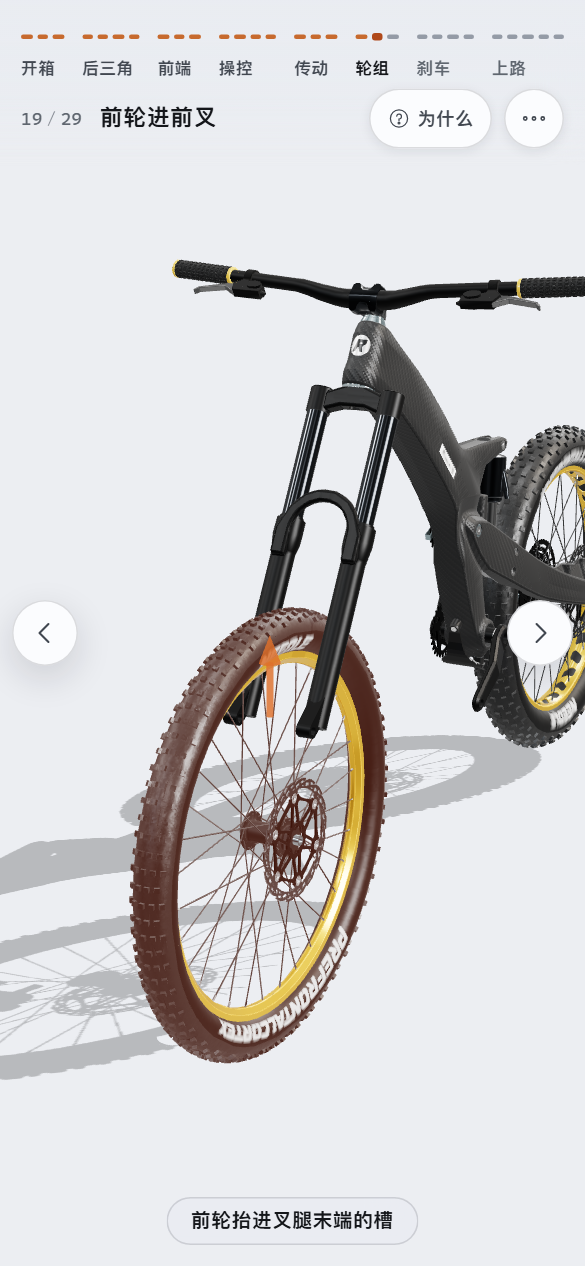
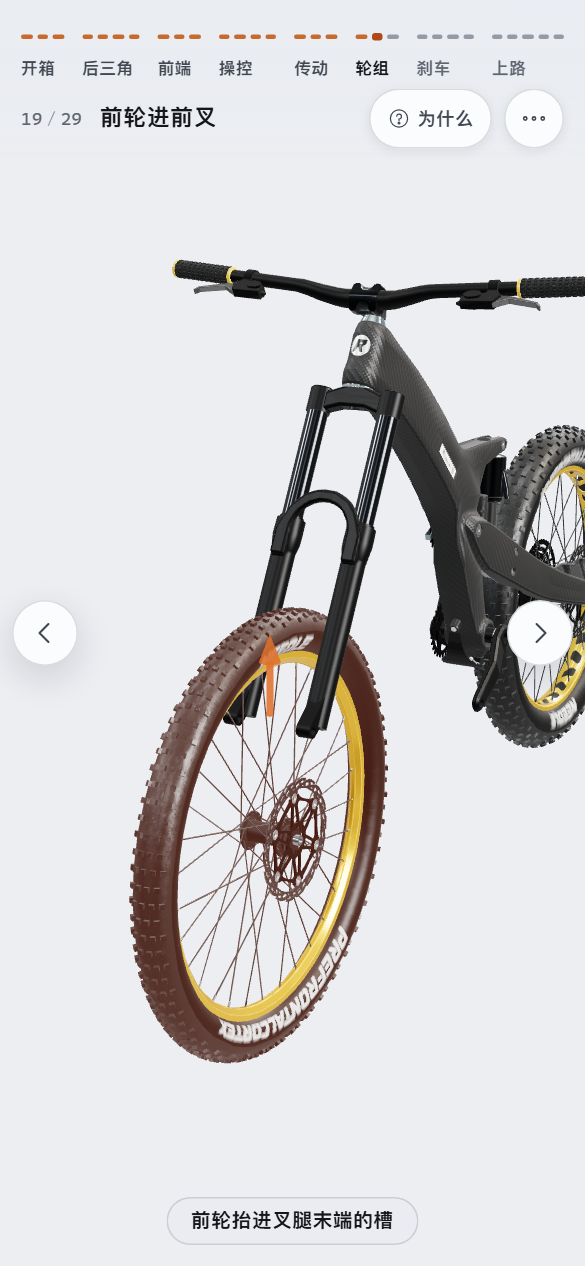
去掉地面投影，收紧整车取景，剔除不必要的镜头运动
一、不投影

一台自行车投在地上的影子是一大片辐条、链条、叉腿交织的噪点，面积常常比主体
本身还大；近景步骤里它就摊在主体旁边，眼睛先被它勾过去。关掉 shadowMap，
去掉接影地面与逐网格的 castShadow / receiveShadow。顺带省掉每帧一张 2048²
的阴影贴图与一整趟投影渲染。

代价是向下那一面失去了唯一的形体线索，所以半球光下半色抬亮转冷
（0x3a3630 → 0x8a8f96，强度 0.45 → 0.6），深色主题另收一档。

二、整车那几张收紧

影子原本正好占着车底下那一块，取消之后同样的余量读起来就是「车缩在中间一小团」。
frameWhole 的 pad 由 1.03 收到 0.96：成品照竖向由占可用画面的 0.71 到 0.76，
光车架 0.87，收尾 0.78。收到 0.92 时窄屏上收尾那张会贴边 —— 冒烟当场报出来了，
这一档是被那条断言定住的。

三、剔除不必要的镜头运动

镜头动是有代价的：读的人会以为「有什么变了」而重新找一遍画面。三条：

- 屏幕上看不出来的位移直接落位，一帧都不动画（TINY）。判据折算成「占画面的几成」，
  不按世界尺度 —— 目标点挪 4 cm，在整车照上什么也看不出，在一颗螺栓的近景里
  却是半个画面。
- 中段外扩只留给真要绕过去的那几趟（BULGE_FROM 40°）。实测二十八趟里由二十八趟
  全有外扩收到只剩六趟，其余那些的「呼吸」本来就没有理由。
- 界面引起的重新取景（说明卡摊开、读数出现、转屏）走快档 0.32 s、不外扩 ——
  它是纠版式，不是叙事。**但不许把正在走的那一趟掐短**：动手的步骤在 enter() 里
  摆出扭矩表时安全区当场变一次，不防的话 H3 / H4 那两趟一秒多的环绕会被压成
  0.32 秒，落点虽对，看着却是「走到一半突然赶过去」。修好后两趟回到 1.15 / 1.38 s。

实测：二十八趟每一趟只排一次运镜，铺完之后没有任何一步再飘（都是 0）。

冒烟

「运镜」那一条的跳切判据改成「明显挪了位置却没排运镜」（挪动 > 5 cm 而时长 < 0.3 s）——
原来的「时长必须 ≥ 0.4」会把故意不动画的那一档误判成跳切。
去掉两处为绕开阴影而临时关地面的代码。

怎么验的

npm run check 全绿：lint + 44 单测 + 11 条清单对账 + 构建 + 108 条冒烟。
npm run frames：整车四张都完整，控制台干净。
专门量了一遍运镜克制程度（时长 / 外扩 / 每步排了几趟 / 铺完之后还飘多少）。
README 七张截图按无影版重拍。

diff --git a/src/render/stage.js b/src/render/stage.js
@@ -36,15 +36,25 @@ function orbit(target, az, el, dist) {
 const SCENE_SPAN = 1.2;
 
 /**
+ * 屏幕上的动静小于这个数就不动画，直接落位。
+ * 0.06 大致相当于：主体在画面上挪不到百分之三、或者转不到五度、或者缩放不到三个点。
+ * 这个量级的位移看不出来，而为它跑半秒动画只会让人以为「有什么变了」。
+ */
+const TINY = 0.06;
+
+/** 转过这么多度才值得在中段把镜头往外鼓一下；以下的只是多余的呼吸 */
+const BULGE_FROM = 40;
+
+/**
  * 三档画质预算。
  *
  * 这台车有 32 根一根根建出来的辐条、一整条链、几十颗倒角螺丝 ——
  * 高对比细边到处都是，镜头又一直在缓慢环绕，抗锯齿不能省。
  */
 const TIERS = {
-  low: { antialias: true, maxPixelRatio: 1.5, shadow: 0 },
-  mid: { antialias: true, maxPixelRatio: 1.75, shadow: 1024 },
-  high: { antialias: true, maxPixelRatio: 2, shadow: 2048 },
+  low: { antialias: true, maxPixelRatio: 1.5 },
+  mid: { antialias: true, maxPixelRatio: 1.75 },
+  high: { antialias: true, maxPixelRatio: 2 },
 };
 
 /** 按设备能力粗分档：显存与核数都探不到时，宁可给低的 */
@@ -77,8 +87,14 @@ export class Stage {
     renderer.outputColorSpace = THREE.SRGBColorSpace;
     renderer.toneMapping = THREE.ACESFilmicToneMapping;
     renderer.toneMappingExposure = 1.0;
-    renderer.shadowMap.enabled = q.shadow > 0;
-    renderer.shadowMap.type = THREE.PCFShadowMap;
+    /*
+     * **不投影。** 这一份要看的是零件与零件怎么接上，而一台自行车投在地上的影子
+     * 是一大片辐条、链条、叉腿交织的噪点，面积常常比主体本身还大 ——
+     * 近景步骤里它就摊在主体旁边，眼睛先被它勾过去。
+     * 去掉之后主体浮在一块干净的台面上，边缘一清二楚。
+     *
+     * 顺带省掉每帧一张 2048² 的阴影贴图与一整趟投影渲染。
+     */
     this.renderer = renderer;
 
     this.scene = new THREE.Scene();
@@ -97,16 +113,6 @@ export class Stage {
     // ── 布光 ──
     this.key = new THREE.DirectionalLight(0xfff4e6, 2.2);
     this.key.position.set(3, 5, 4);
-    this.key.castShadow = q.shadow > 0;
-    if (q.shadow) {
-      this.key.shadow.mapSize.set(q.shadow, q.shadow);
-      this.key.shadow.camera.near = 0.5;
-      this.key.shadow.camera.far = 20;
-      const s = 1.6;
-      Object.assign(this.key.shadow.camera, { left: -s, right: s, top: s, bottom: -s });
-      this.key.shadow.bias = -0.0006;
-      this.key.shadow.normalBias = 0.02;
-    }
     this.scene.add(this.key, this.key.target);
 
     this.fill = new THREE.DirectionalLight(0xcfe0f0, 0.7);
@@ -117,17 +123,14 @@ export class Stage {
     this.rim.position.set(-2, 3, -5);
     this.scene.add(this.rim);
 
-    this.ambient = new THREE.HemisphereLight(0xdfe8f2, 0x3a3630, 0.45);
+    /*
+     * 底光。没有影子之后，向下那一面完全靠它交代形体 ——
+     * 半球光的下半色原本压得很暗（0x3a3630），是为了让影子显得有分量；
+     * 影子不在了，那一档就只剩「底下糊成一团」。抬亮并转冷一点，
+     * 底面的转折才读得出来。
+     */
+    this.ambient = new THREE.HemisphereLight(0xdfe8f2, 0x8a8f96, 0.6);
     this.scene.add(this.ambient);
-
-    // ── 地面：只接影，不抢戏 ──
-    this.ground = new THREE.Mesh(
-      new THREE.PlaneGeometry(40, 40),
-      new THREE.ShadowMaterial({ opacity: 0.22 }),
-    );
-    this.ground.rotation.x = -Math.PI / 2;
-    this.ground.receiveShadow = true;
-    this.scene.add(this.ground);
 
     const controls = new OrbitControls(this.camera, canvas);
     controls.enableDamping = true;
@@ -172,7 +175,7 @@ export class Stage {
     this.renderer.setSize(w, h, false);
     this.camera.aspect = w / h;
     this.camera.updateProjectionMatrix();
-    if (this._lastFrame) this.setRecommended(this._lastFrame, { keepUser: true });
+    if (this._lastFrame) this.setRecommended(this._lastFrame, { keepUser: true, layout: true });
   }
 
   /**
@@ -185,7 +188,7 @@ export class Stage {
     this.safe = { top, bottom, left, right };
     // 动手的时候不重新取景：提示文字每换一行安全区就变，机位会一直缓慢地飘
     if (this.held) return;
-    if (this._lastFrame) this.setRecommended(this._lastFrame, { keepUser: true });
+    if (this._lastFrame) this.setRecommended(this._lastFrame, { keepUser: true, layout: true });
   }
 
   /**
@@ -242,11 +245,13 @@ export class Stage {
    * @param {{az?:number, el?:number, dist?:number, target?:THREE.Vector3,
    *          ease?:number, fit?:{r:number,h?:number}}} o
    *   fit 声明这一步必须完整看到的范围；装不下就把相机往后拉，只拉远不拉近。
-   * @param {{keepUser?:boolean}} [mode] keepUser：只是拿旧声明重算距离（画幅变了、
-   *   界面高度变了），不能清掉 userTook —— 否则用户刚转到顺手的角度，
+   * @param {{keepUser?:boolean, layout?:boolean}} [mode] keepUser：只是拿旧声明重算距离
+   *   （画幅变了、界面高度变了），不能清掉 userTook —— 否则用户刚转到顺手的角度，
    *   随便哪行提示换个字数，镜头就自己溜回去。
+   *   layout：这一次是界面变了要重新让位，不是换步。走快档、不鼓 —— 它是纠版式，
+   *   不是叙事的一部分，慢悠悠地飘过去反而像画面自己在动。
    */
-  setRecommended(o = {}, { keepUser = false } = {}) {
+  setRecommended(o = {}, { keepUser = false, layout = false } = {}) {
     const { az = 45, el = 18, dist, target = new THREE.Vector3(), ease = 1.0, fit } = o;
     this._lastFrame = { ...o, target };
     const t = target.clone();
@@ -282,7 +287,7 @@ export class Stage {
     if (!keepUser) this.userTook = false;
     this.cameraEase = ease;
     this.key.target.position.copy(t);
-    this.#beginShot(ease);
+    this.#beginShot(ease, { layout });
   }
 
   /** 相机此刻的轨道坐标（相对 controls.target） */
@@ -309,12 +314,22 @@ export class Stage {
    *  · 方位角走**最短的那一边**（归一到 ±180），否则会绕远路转 300°；
    *  · 距离按**几何插值**（等比），不是等差 —— 从 5 m 推到 0.3 m 时等差插值
    *    前半程几乎不动、后半程猛扑；
-   *  · 中段把距离往外鼓一点。转得越多鼓得越高，既避开中途蹭到车身，
-   *    读起来也正是真人换机位的样子：先退开，转过去，再推进。
+   *  · 转得多的时候，中段把距离往外鼓一点：避开中途蹭到车身，
+   *    读起来也正是真人换机位的样子 —— 先退开，转过去，再推进。
    *
-   * 时长按「这一趟有多远」现算：原地微调半秒收，转半圈一秒七。
+   * 时长按「这一趟有多远」现算：小幅调整半秒收，转半圈一秒七。
+   *
+   * **走不动的就别走。** 镜头动是有代价的：读的人会以为「有什么变了」而重新找一遍。
+   * 所以两处克制：
+   *   看不出来的位移直接落位，一帧都不animate（下面的 TINY）；
+   *   界面自己引起的重新取景（说明卡摊开、读数出现、转屏）只用来纠版式，
+   *     不是叙事的一部分 —— 走快档，也不鼓。
+   * 中段外扩同样只留给真的绕过半个车身那几趟，小幅调整时它只是一次多余的呼吸。
+   *
+   * @param {number} ease 步骤声明的时长系数
+   * @param {{layout?:boolean}} [o] layout：这一次只是界面变了要重新让位，不是换步
    */
-  #beginShot(ease = 1) {
+  #beginShot(ease = 1, { layout = false } = {}) {
     const from = this.#poseNow();
     const to = {
       target: this.recommend.target.clone(),
@@ -325,20 +340,48 @@ export class Stage {
     const dAz = wrapDeg(to.az - from.az);
     const dEl = to.el - from.el;
     const zoom = Math.abs(Math.log(Math.max(to.dist, 1e-3) / Math.max(from.dist, 1e-3)));
-    const move = from.target.distanceTo(to.target) / SCENE_SPAN;
-    const effort = Math.abs(dAz) / 180 + Math.abs(dEl) / 60 + zoom / 1.6 + move;
 
-    if (effort < 1e-3) { this.shot = null; return; }
+    /*
+     * 这一趟在**屏幕上**有多大动静。全按世界尺度算是不行的：
+     * 目标点挪 4 cm，在整车照上什么也看不出，在一颗螺栓的近景里却是半个画面。
+     * 折算成「占画面的几成」，判据才在近景与全景上都成立。
+     */
+    const span = 2 * to.dist * Math.tan((this.camera.fov * Math.PI) / 360);
+    const move = from.target.distanceTo(to.target) / Math.max(span, 1e-4);
+    const screen = Math.abs(dAz) / 90 + Math.abs(dEl) / 45 + zoom / 0.5 + move;
+
+    // 看不出来的就直接落位。这一档不是「跳切」—— 按定义它在屏幕上就不可见
+    if (screen < TINY) { this.shot = null; this.snapToRecommended(); return; }
+
+    const effort = Math.abs(dAz) / 180 + Math.abs(dEl) / 60 + zoom / 1.6
+      + from.target.distanceTo(to.target) / SCENE_SPAN;
     // 用户要求减少动效时几乎直接换过去 —— 一秒多的环绕对前庭敏感的人是负担。
     // 但仍留 0.2 秒：硬切一帧就是这一条要避免的「跳」
+    /*
+     * 界面引起的重新取景不能把**正在走的那一趟**掐短。
+     * 动手的那几步会在 enter() 里摆出扭矩表与螺丝排，安全区当场变一次，
+     * 于是一趟一秒四的环绕被一次纠版式压成 0.32 秒 —— 落点是对的，
+     * 可那一下看着就是「走到一半突然赶过去」。
+     * 快档只对「原本就没在走」的那一次生效。
+     */
+    const running = this.shot && !this.shot.layout
+      ? Math.max(0, this.shot.dur - this.shot.t)
+      : 0;
     const slow = reducedMotion();
+    const dur = slow ? 0.2
+      : layout ? Math.max(0.32, running)
+        : Math.max(0.45, Math.min(1.7, (0.45 + 0.8 * effort) / (ease || 1)));
     this.shot = {
       from,
       to,
       dAz,
       t: 0,
-      dur: slow ? 0.2 : Math.max(0.45, Math.min(1.7, (0.45 + 0.8 * effort) / (ease || 1))),
-      bulge: slow ? 0 : Math.min(0.34, 0.3 * effort),
+      dur,
+      layout,
+      // 只有真的要绕过去时才鼓。BULGE_FROM 以下这一下只是多余的呼吸
+      bulge: slow || layout || Math.abs(dAz) < BULGE_FROM
+        ? 0
+        : Math.min(0.3, 0.3 * (Math.abs(dAz) - BULGE_FROM) / (180 - BULGE_FROM)),
     };
   }
 
@@ -428,8 +471,8 @@ export class Stage {
   setTheme(theme) {
     const dark = theme === 'dark';
     this.scene.background = new THREE.Color(dark ? 0x14161a : 0xeceef2);
-    this.ground.material.opacity = dark ? 0.35 : 0.22;
-    this.ambient.intensity = dark ? 0.28 : 0.45;
+    // 深色下底光要收，不然黑车身在深底上没有轮廓；浅色下要给足，那是唯一的底面照明
+    this.ambient.intensity = dark ? 0.34 : 0.6;
     this.scene.environmentIntensity = dark ? 0.7 : 1.0;
   }
 

diff --git a/src/steps/util.js b/src/steps/util.js
@@ -388,10 +388,18 @@ export function frameWhole(ctx, { burst = false, bare = false, pad, az = 38, el 
   if (burst) burstAll(ctx, 1);
   const boxes = meshBoxes(ctx, { skipParts: bare });
   if (burst) burstReset(ctx);
-  // 摊开那一张多留一点余量：二十七件散在画幅四角，贴边的那几件正是最小的那几件，
-  // 切掉一点就等于少了一件，而这一步的全部意思就是「数得出有多少件」。
-  // 只多给半成 —— 余量每多一成，每一件就小一成，而小件本来就只有十几个像素
-  pad ??= burst ? 1.07 : 1.03;
+  /*
+   * 摊开那一张多留一点余量：二十七件散在画幅四角，贴边的那几件正是最小的那几件，
+   * 切掉一点就等于少了一件，而这一步的全部意思就是「数得出有多少件」。
+   *
+   * 整车那几张反过来要收紧。取消投影之后地上那一大片影子没有了，
+   * 而它原本正好占着车底下那一块 —— 现在同样的余量读起来就是「车缩在中间一小团」。
+   * 实测成品照竖向只占到可用画面的 0.71，收到 0.96 之后是 0.76，收尾那张 0.78，
+   * 光车架那张 0.87。再往下收，出门前自检那张会顶进底下那块清单里
+   * （它的可用画面被清单占掉一截，同样的余量在它身上更紧）。
+   * 收得动的底气来自冒烟里那一条：整车四张必须完整落在画幅内，过紧当场报错。
+   */
+  pad ??= burst ? 1.07 : 0.96;
   // 整车这一档只补三分之一的半深，理由见 aimAt 的 depth
   return aimAt(boxes, { az, el, pad, depth: 0.34 });
 }

diff --git a/src/render/bike.js b/src/render/bike.js
@@ -68,8 +68,7 @@ export class Bike {
       if (o.name && !this.byName.has(o.name)) this.byName.set(o.name, o);
       if (o.isMesh) {
         meshes++;
-        o.castShadow = true;
-        o.receiveShadow = true;
+        // 不设 castShadow / receiveShadow：这一份不投影，理由见 render/stage.js
         // 上游有几处材质双面开着，开着会让辐条与刹车油管出现自阴影噪点
         if (Array.isArray(o.material)) o.material.forEach((m) => { m.side = THREE.FrontSide; });
         else if (o.material) o.material.side = THREE.FrontSide;

diff --git a/docs/DEVELOPMENT.md b/docs/DEVELOPMENT.md
@@ -212,6 +212,26 @@ Y 轴向上（glTF 规范），+Z 是车的左侧，−X 是车头，**1 单位 
    偏多少按「主体半跨度 ÷ 整车半径」缩放：主体本身就横跨大半台车时
    （两根油管从刹把一路走到卡钳）四周没有空地可填，再偏只会把车推到画幅上半。
 
+## 不投影
+
+场景里没有影子，也没有接影的地面（`render/stage.js` 不开 `shadowMap`，
+`render/bike.js` 不设 `castShadow` / `receiveShadow`）。
+
+一台自行车投在地上的影子是一大片辐条、链条、叉腿交织的噪点，面积常常比主体本身还大；
+近景步骤里它就摊在主体旁边，眼睛先被它勾过去。去掉之后主体浮在一块干净的台面上，
+边缘一清二楚，顺带省掉每帧一张 2048² 的阴影贴图与一整趟投影渲染。
+
+代价是向下那一面失去了唯一的形体线索，所以半球光的下半色抬亮转冷
+（`0x3a3630` → `0x8a8f96`，强度 0.45 → 0.6），深色主题下另收一档。
+
+两处连带的量纲变化，改之前要知道：
+
+- **取景的余量要收紧。** 影子原本占着车底下那一块，同样的 `pad` 在没有影子时
+  读起来就是「车缩在中间一小团」。整车那几张实测竖向由 0.71 收到 0.78–0.87。
+- **逐像素比对不再有阴影噪点。** 早先量「摊开那一步每一件露多少」时必须先关影子
+  （换一个投影件会让整张阴影贴图重采样，逐像素差里混进一大片与它无关的噪点），
+  现在不必了。
+
 ## 换步的运镜
 
 二十九步是一件事，不是二十九张图 —— 全靠「同一台车，镜头挪过去」串起来。
@@ -266,8 +286,7 @@ Y 轴向上（glTF 规范），+Z 是车的左侧，−X 是车头，**1 单位 
 车架最后剩下。一口气全炸开只是一次位移，看不出层次。
 
 复查走 `npm run smoke` 里的「摊开」那一条：逐件比对「有它 / 没它」两张渲染的像素差，
-差出来的就是它露在最前面的部分。量之前要**关掉影子** ——
-换一个投影件会让整张阴影贴图重采样，逐像素差里混进一大片噪点。
+差出来的就是它露在最前面的部分。
 
 复量走 `npm run frames`（`tools/frame-audit.mjs`）：起产物走完全程，把画布缩样读回来，
 逐步报出「非背景像素的外接框」占了可用画面的几成、偏心多少、整车那四张有没有贴边。

diff --git a/README.md b/README.md
@@ -25,11 +25,17 @@
 顺序不是编的：由清单里的 `needs` 约束，`npm run verify` 的拓扑排序替它作证 ——
 没压头碗前叉无处可穿，没有把立车把没有托座，没装曲柄脚踏拧不进去。
 
-**镜头一路是连着的。** 二十九步之间没有跳切：换步时相机绕着主体转过去、
-等比推拉、两头都不带顿挫，一步的落点就是下一步该在的机位。
-开箱那三步索性共用一个机位 —— 装好的、摊开的、只剩车架的，镜头不动，
-变的只有车。哪一章站哪一侧也是挑过的：传动三步都在传动侧，
-左右脚踏各站自己那一侧的前四分之三位。往回翻同样顺。
+**镜头一路是连着的，而且只在该动的时候动。** 二十九步之间没有跳切：
+换步时相机绕着主体转过去、等比推拉、两头都不带顿挫，一步的落点就是下一步该在的机位。
+反过来也克制 —— 看不出来的位移直接落位不动画，中段的外扩只留给真要绕过半个车身的那几趟
+（实测二十八趟里只有六趟有），界面自己引起的让位走快档，且不许把正在走的那一趟掐短。
+开箱那三步索性共用一个机位：装好的、摊开的、只剩车架的，镜头不动，变的只有车。
+哪一章站哪一侧也是挑过的 —— 传动三步都在传动侧，左右脚踏各站自己那一侧的前四分之三位。
+往回翻同样顺。
+
+**不投影。** 一台自行车投在地上的影子是一大片辐条、链条、叉腿交织的噪点，
+面积常常比主体本身还大，近景里它就摊在主体旁边把眼睛勾过去。
+去掉之后主体浮在一块干净的台面上，边缘一清二楚。
 
 **近景要看得出这是车上的哪儿。** 每一步的机位与取景由几何现算，
 框住这一步的主体连同它周围那一小块车身。主转点轴只有一颗螺栓那么大，

diff --git a/docs/CONTRACT.md b/docs/CONTRACT.md
@@ -136,6 +136,16 @@ steps/      步骤内容                        通过 ctx 取用以上全部
   （`ease: 0.55` 就是拉长到约两倍，「拆开看看」用它与两秒六的摊开同步）。
 - 用户一碰画面，这一趟当场作废 —— 转到哪儿就停在哪儿。
 
+**克制。** 镜头动是有代价的：读的人会以为「有什么变了」而重新找一遍画面。三条：
+
+- 屏幕上看不出来的位移（`TINY`）直接落位，一帧都不动画。这不是跳切 ——
+  按定义它在屏幕上就不可见。
+- 中段外扩只留给真的要绕过去的那几趟（`BULGE_FROM` 40°）。小幅调整时它只是一次多余的呼吸。
+  实测二十八趟里只有六趟有外扩。
+- 界面自己引起的重新取景（说明卡摊开、读数出现、转屏）走快档 0.32 s、不外扩 ——
+  它是纠版式，不是叙事。但**不许把正在走的那一趟掐短**：动手的步骤会在 `enter()` 里
+  摆出扭矩表，安全区当场变一次，不防的话一趟一秒四的环绕会被压成 0.32 秒。
+
 **拧螺丝的步骤，机位必须正对螺栓轴、从螺栓头那一侧看。** 两条都是硬要求：
 看不到螺栓头就无从下手；而旋入靠指针绕轴画圈读角度，轴一旦躺进屏幕平面
 （`|视线·轴| < 0.3`），拖拽平面几乎与视线平行，交点跑到几十米外，
